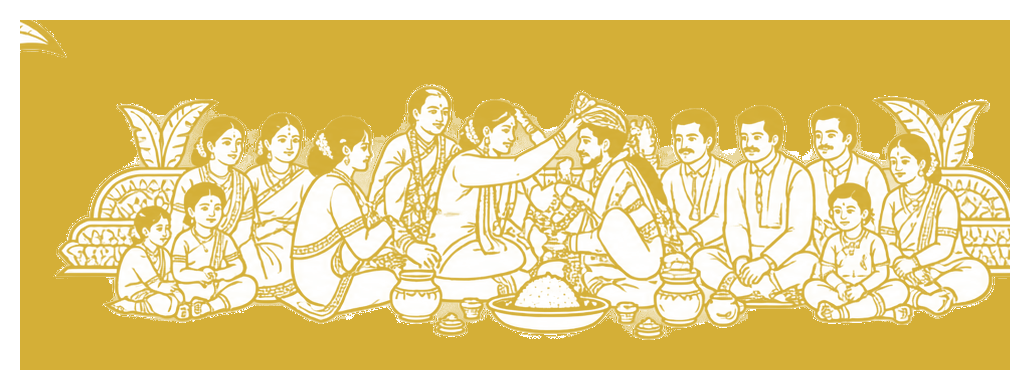
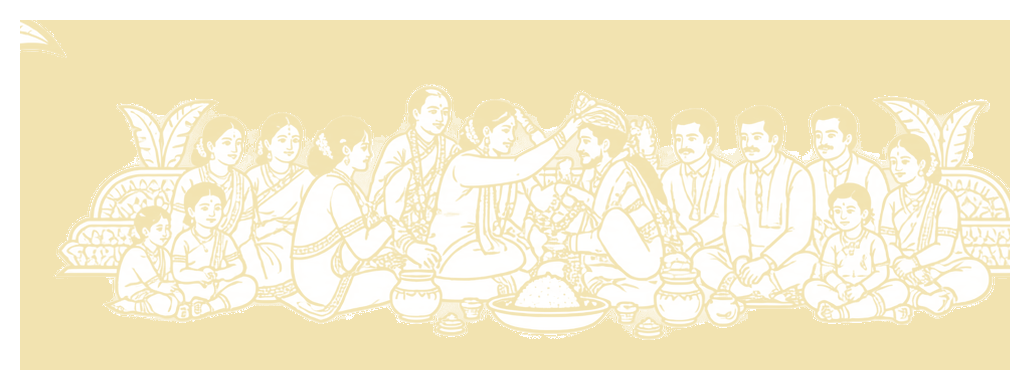
Theme: deep dark chocolate + antique gold; lighter champagne-gold wedding family scene

diff --git a/app/components/RSVPSection.tsx b/app/components/RSVPSection.tsx
@@ -49,7 +49,7 @@ const labelStyle: React.CSSProperties = {
   textTransform: "uppercase", marginBottom: "0.5rem",
 };
 const panelStyle: React.CSSProperties = {
-  background: "#0A4030", borderRadius: "22px", padding: "1.6rem",
+  background: "#3D2011", borderRadius: "22px", padding: "1.6rem",
   boxShadow: "0 10px 30px rgba(0,0,0,0.4)",
 };
 
@@ -104,7 +104,7 @@ export default function RSVPSection() {
   const allDeclined = false;
 
   return (
-    <section id="rsvp" className="py-20 px-4 sm:px-6 relative overflow-hidden" style={{ background: "#04231A" }}>
+    <section id="rsvp" className="py-20 px-4 sm:px-6 relative overflow-hidden" style={{ background: "#241009" }}>
       <div className="absolute top-0 -right-20 w-72 h-72 rounded-full pointer-events-none"
         style={{ background: "radial-gradient(circle, rgba(201,162,75,0.14), transparent 70%)" }} />
 
@@ -182,7 +182,7 @@ export default function RSVPSection() {
 
                 <div className="space-y-5">
                   {form.guests.map((guest, i) => (
-                    <div key={i} style={{ border: "2px solid rgba(246,236,251,0.12)", borderRadius: 18, padding: "1.1rem", background: "#063024" }}>
+                    <div key={i} style={{ border: "2px solid rgba(246,236,251,0.12)", borderRadius: 18, padding: "1.1rem", background: "#2A1509" }}>
                       <div className="flex items-center justify-between mb-3">
                         <span style={{ fontFamily: "'Cormorant Garamond', serif", fontWeight: 700, fontSize: "0.75rem", letterSpacing: "0.1em", color: "#E7CE8E", textTransform: "uppercase" }}>Guest {i + 1}</span>
                         {i > 0 && (
@@ -205,10 +205,10 @@ export default function RSVPSection() {
                                 <span style={{ fontFamily: "'Cormorant Garamond', serif", fontWeight: 600, fontSize: "0.72rem", color: "#D9D2C4", textTransform: "uppercase" }}>{field}</span>
                                 <div className="flex items-center gap-2">
                                   <button type="button" onClick={() => adjustCount(i, field, -1)} aria-label={`less ${field}`}
-                                    style={{ width: 30, height: 30, borderRadius: 999, border: "none", background: "#0A4030", color: "#E7CE8E", fontSize: "1.1rem", fontWeight: 700, cursor: "pointer" }}>−</button>
+                                    style={{ width: 30, height: 30, borderRadius: 999, border: "none", background: "#3D2011", color: "#E7CE8E", fontSize: "1.1rem", fontWeight: 700, cursor: "pointer" }}>−</button>
                                   <span style={{ fontFamily: "'Cinzel', serif", fontWeight: 600, fontSize: "1.1rem", minWidth: "1.4rem", textAlign: "center", color: "#F4EFE4" }}>{guest[field]}</span>
                                   <button type="button" onClick={() => adjustCount(i, field, 1)} aria-label={`more ${field}`}
-                                    style={{ width: 30, height: 30, borderRadius: 999, border: "none", background: "#0A4030", color: "#E7CE8E", fontSize: "1.1rem", fontWeight: 700, cursor: "pointer" }}>+</button>
+                                    style={{ width: 30, height: 30, borderRadius: 999, border: "none", background: "#3D2011", color: "#E7CE8E", fontSize: "1.1rem", fontWeight: 700, cursor: "pointer" }}>+</button>
                                 </div>
                               </div>
                             ))}

diff --git a/app/components/GallerySection.tsx b/app/components/GallerySection.tsx
@@ -17,7 +17,7 @@ export default function GallerySection() {
   const [lightbox, setLightbox] = useState<number | null>(null);
 
   return (
-    <section id="gallery" className="py-20 px-6 relative" style={{ background: "#073528" }}>
+    <section id="gallery" className="py-20 px-6 relative" style={{ background: "#331A0E" }}>
       <div className="max-w-5xl mx-auto">
         <motion.div initial={{ opacity: 0, y: 20 }} whileInView={{ opacity: 1, y: 0 }} viewport={{ once: true }} className="text-center mb-14">
           <p style={{ fontFamily: "'Cormorant Garamond', serif", fontWeight: 600, fontSize: "0.75rem", letterSpacing: "0.24em", color: "#C9A24B", textTransform: "uppercase" }}>
@@ -66,7 +66,7 @@ export default function GallerySection() {
               <span style={{ fontSize: "3rem" }}>📷</span>
               <p className="mt-2" style={{ fontFamily: "'Cinzel', serif", fontWeight: 600, color: items[lightbox].color, fontSize: "1.3rem" }}>{items[lightbox].caption}</p>
               <button onClick={() => setLightbox(null)} className="absolute top-3 right-3"
-                style={{ width: 34, height: 34, borderRadius: 999, background: "#0A4030", border: "none", cursor: "pointer", fontSize: "1rem", color: "#F4EFE4" }}>✕</button>
+                style={{ width: 34, height: 34, borderRadius: 999, background: "#3D2011", border: "none", cursor: "pointer", fontSize: "1rem", color: "#F4EFE4" }}>✕</button>
             </motion.div>
           </motion.div>
         )}

diff --git a/app/globals.css b/app/globals.css
@@ -8,10 +8,10 @@
 
 :root {
   /* Core palette */
-  --navy:       #04231A;   /* deep forest green base */
-  --navy-2:     #073528;   /* lighter emerald section */
-  --navy-3:     #021710;   /* darkest green */
-  --navy-card:  #0A4030;   /* card / panel emerald */
+  --navy:       #241009;   /* deep dark chocolate base */
+  --navy-2:     #331A0E;   /* lighter chocolate section */
+  --navy-3:     #180A05;   /* darkest chocolate */
+  --navy-card:  #3D2011;   /* card / panel chocolate */
 
   --gold:       #C9A24B;   /* warm antique gold */
   --gold-light: #E7CE8E;   /* light champagne gold */
@@ -211,7 +211,7 @@ input::placeholder, textarea::placeholder { color: var(--muted); }
   position: fixed; bottom: 22px; right: 22px; z-index: 40;
   display: flex; align-items: center; gap: 8px;
   padding: 11px 18px; border-radius: 999px;
-  background: rgba(4,35,26,0.92);
+  background: rgba(36,16,9,0.92);
   border: 1px solid var(--gold); color: var(--gold);
   font-family: 'Cinzel', serif; font-weight: 500;
   font-size: 0.7rem; letter-spacing: 0.14em; text-transform: uppercase;

diff --git a/app/components/EnvelopeIntro.tsx b/app/components/EnvelopeIntro.tsx
@@ -60,7 +60,7 @@ export default function EnvelopeIntro() {
           initial={{ opacity: 1 }}
           exit={{ opacity: 0, transition: { duration: 0.7 } }}
           className="fixed inset-0 z-[9999] flex items-center justify-center overflow-y-auto py-8"
-          style={{ background: "radial-gradient(circle at 50% 30%, #073528 0%, #04231A 60%, #021710 100%)" }}
+          style={{ background: "radial-gradient(circle at 50% 30%, #331A0E 0%, #241009 60%, #180A05 100%)" }}
         >
           <Confetti count={40} />
 
@@ -82,7 +82,7 @@ export default function EnvelopeIntro() {
               width: "min(90vw, 460px)",
               padding: "1.6rem 1.6rem 2.2rem",
               borderRadius: 10,
-              background: "linear-gradient(160deg, #073528 0%, #04231A 100%)",
+              background: "linear-gradient(160deg, #331A0E 0%, #241009 100%)",
               border: "1.5px solid rgba(201,162,75,0.55)",
               boxShadow: "0 20px 60px rgba(0,0,0,0.6), 0 0 40px rgba(201,162,75,0.12)",
             }}

diff --git a/app/components/CountdownSection.tsx b/app/components/CountdownSection.tsx
@@ -30,7 +30,7 @@ function Unit({ value, label, color }: { value: number; label: string; color: st
         style={{
           width: "clamp(4.5rem, 18vw, 7rem)",
           height: "clamp(4.5rem, 18vw, 7rem)",
-          background: "#0A4030",
+          background: "#3D2011",
           boxShadow: `0 10px 26px ${color}33`,
           border: `3px solid ${color}`,
         }}
@@ -63,7 +63,7 @@ export default function CountdownSection() {
   if (!mounted) return null;
 
   return (
-    <section id="countdown" className="py-20 px-6 relative" style={{ background: "#04231A" }}>
+    <section id="countdown" className="py-20 px-6 relative" style={{ background: "#241009" }}>
       <div className="max-w-3xl mx-auto text-center">
         <motion.p
           initial={{ opacity: 0, y: 16 }} whileInView={{ opacity: 1, y: 0 }} viewport={{ once: true }}

diff --git a/app/components/WeddingDecor.tsx b/app/components/WeddingDecor.tsx
@@ -51,12 +51,12 @@ export default function WeddingDecor() {
       {/* Dark ornamental carved vertical borders on both edges */}
       <div className="absolute top-0 bottom-0 left-0" style={{
         width: "34px",
-        background: "linear-gradient(90deg, #021710 0%, #063024 70%, transparent 100%)",
+        background: "linear-gradient(90deg, #180A05 0%, #2A1509 70%, transparent 100%)",
         borderRight: "1px solid rgba(201,162,75,0.35)",
       }} />
       <div className="absolute top-0 bottom-0 right-0" style={{
         width: "34px",
-        background: "linear-gradient(270deg, #021710 0%, #063024 70%, transparent 100%)",
+        background: "linear-gradient(270deg, #180A05 0%, #2A1509 70%, transparent 100%)",
         borderLeft: "1px solid rgba(201,162,75,0.35)",
       }} />
 

diff --git a/app/components/GlobalNav.tsx b/app/components/GlobalNav.tsx
@@ -69,7 +69,7 @@ export default function GlobalNav() {
             initial={{ opacity: 0, x: "100%" }} animate={{ opacity: 1, x: 0 }} exit={{ opacity: 0, x: "100%" }}
             transition={{ type: "tween", duration: 0.3 }}
             className="fixed inset-0 z-40 flex flex-col items-center justify-center gap-8"
-            style={{ background: "linear-gradient(160deg, #073528, #04231A)" }}>
+            style={{ background: "linear-gradient(160deg, #331A0E, #241009)" }}>
             <span className="festive-text" style={{ fontFamily: "'Cinzel', serif", fontWeight: 700, fontSize: "2rem" }}>A &amp; C</span>
             {navLinks.map((l, i) => (
               <motion.a key={l.href} href={l.href}

diff --git a/app/components/DressCodeSection.tsx b/app/components/DressCodeSection.tsx
@@ -13,7 +13,7 @@ const codes = [
 
 export default function DressCodeSection() {
   return (
-    <section id="dresscode" className="py-20 px-6 relative" style={{ background: "#04231A" }}>
+    <section id="dresscode" className="py-20 px-6 relative" style={{ background: "#241009" }}>
       <div className="max-w-5xl mx-auto">
         <motion.div initial={{ opacity: 0, y: 20 }} whileInView={{ opacity: 1, y: 0 }} viewport={{ once: true }} className="text-center mb-14">
           <p style={{ fontFamily: "'Cormorant Garamond', serif", fontWeight: 600, fontSize: "0.75rem", letterSpacing: "0.24em", color: "#C9A24B", textTransform: "uppercase" }}>

diff --git a/app/components/RegistrySection.tsx b/app/components/RegistrySection.tsx
@@ -8,7 +8,7 @@ const gifts = [
 
 export default function RegistrySection() {
   return (
-    <section id="registry" className="py-20 px-6 relative" style={{ background: "#04231A" }}>
+    <section id="registry" className="py-20 px-6 relative" style={{ background: "#241009" }}>
       <div className="max-w-4xl mx-auto">
         <motion.div initial={{ opacity: 0, y: 20 }} whileInView={{ opacity: 1, y: 0 }} viewport={{ once: true }} className="text-center mb-14">
           <p style={{ fontFamily: "'Cormorant Garamond', serif", fontWeight: 600, fontSize: "0.75rem", letterSpacing: "0.24em", color: "#C9A24B", textTransform: "uppercase" }}>

diff --git a/app/components/EventsSection.tsx b/app/components/EventsSection.tsx
@@ -41,7 +41,7 @@ const events: EventItem[] = [
 
 export default function EventsSection() {
   return (
-    <section id="events" className="py-20 px-6 relative overflow-hidden" style={{ background: "#04231A" }}>
+    <section id="events" className="py-20 px-6 relative overflow-hidden" style={{ background: "#241009" }}>
       <div className="absolute top-10 -left-16 w-64 h-64 rounded-full pointer-events-none"
         style={{ background: "radial-gradient(circle, rgba(201,162,75,0.14), transparent 70%)" }} />
       <div className="absolute bottom-10 -right-16 w-72 h-72 rounded-full pointer-events-none"

diff --git a/app/components/HeroSection.tsx b/app/components/HeroSection.tsx
@@ -8,7 +8,7 @@ export default function HeroSection() {
     <section
       id="home"
       className="relative min-h-screen flex flex-col items-center justify-center overflow-hidden px-6"
-      style={{ background: "radial-gradient(circle at 20% 20%, #073528 0%, #04231A 55%, #021710 100%)" }}
+      style={{ background: "radial-gradient(circle at 20% 20%, #331A0E 0%, #241009 55%, #180A05 100%)" }}
     >
       <Confetti count={44} />
 

diff --git a/app/components/Footer.tsx b/app/components/Footer.tsx
@@ -6,7 +6,7 @@ import Confetti from "./Confetti";
 export default function Footer() {
   return (
     <footer className="relative overflow-hidden py-24 px-6 text-center"
-      style={{ background: "linear-gradient(160deg, #021710 0%, #073528 55%, #04231A 100%)" }}>
+      style={{ background: "linear-gradient(160deg, #180A05 0%, #331A0E 55%, #241009 100%)" }}>
       <Confetti count={30} />
 
       <div className="relative z-10">
